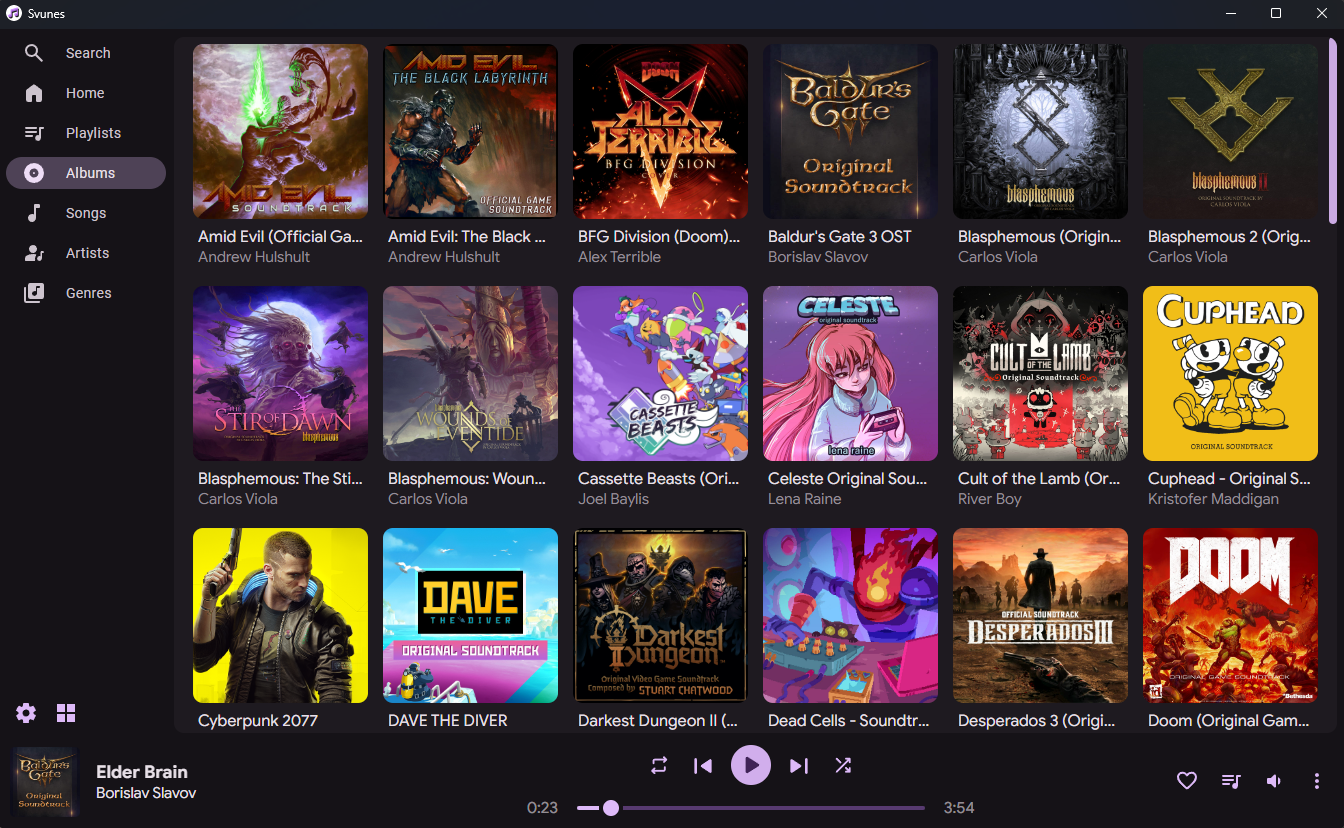
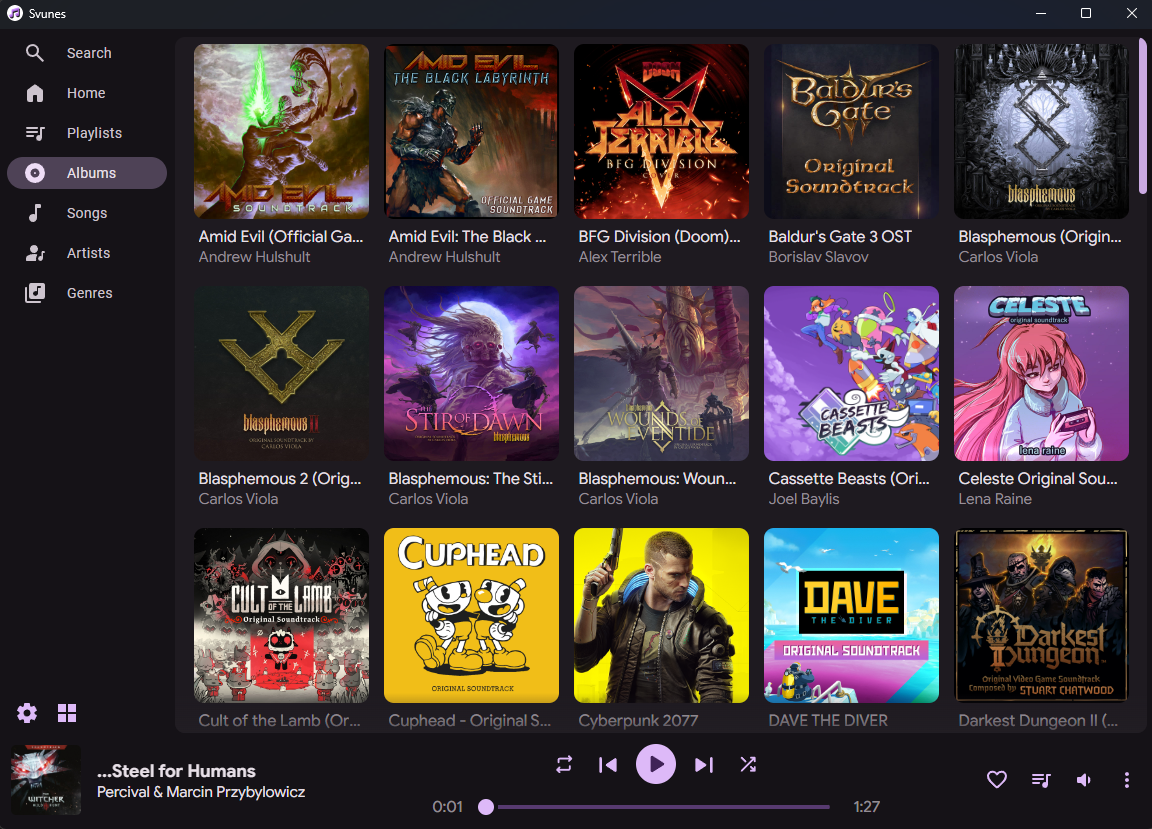
chore: updated desktop images

diff --git a/README.md b/README.md
@@ -17,11 +17,24 @@ An offline-first music player for your music library. Allows you to make playlis
 
 # Installation
 
-<!-- TODO: Android -->
-<!-- TODO: iOS -->
-<!-- TODO: Windows -->
-<!-- TODO: Linux -->
-<!-- TODO: Mac -->
+## Windows
+
+### Full Releases
+
+### Release Candidate
+
+## Linux
+Coming soon
+
+## Android
+Coming soon
+
+## Mac
+Coming soon
+
+## iOS
+Coming soon
+
 
 # Features
 
@@ -30,6 +43,8 @@ Svunes leverages the performance of Rust and multi-threading to quickly load lib
 
 ## Intuitive Navigation
 You can browse by your albums, genres, artists, songs or search all of them. Its easy to customize the order of the navigation bar, as well as which pages are displayed.
+
+### Mobile Views
 | <img src="public/readme-images/home.png" width="200"/>	|<img src="public/readme-images/playlists.png" width="200"/>|   <img src="public/readme-images/search.png" width="200"/>  	|    <img src="public/readme-images/songs.png" width="200"/> 	|
 |:-----:|   :-----:   | :-----:	|:-----:|
 | Home 	| Playlists 	| Search 	| Songs |
@@ -37,6 +52,23 @@ You can browse by your albums, genres, artists, songs or search all of them. Its
 | <img src="public/readme-images/albums.png" width="200"/>	|<img src="public/readme-images/artists.png" width="200"/>|   <img src="public/readme-images/genres.png" width="200"/>  	|    <img src="public/readme-images/settings.png" width="200"/> 	|
 |:-----: | :-----:	| :-----:	| :-----:	  |
 | Albums | Artists 	| Genres 	| Settings 	|
+
+### Desktop Views
+| <img src="public/readme-images/desktop/home.png" width="400"/>	|<img src="public/readme-images/desktop/playlists.png" width="400"/>|
+|:-----:|   :-----:   |
+| Home 	| Playlists 	|
+
+| <img src="public/readme-images/desktop/search.png" width="400"/>  	|    <img src="public/readme-images/desktop/songs.png" width="400"/> 	|
+| :-----:	|:-----:|
+| Search 	| Songs |
+
+| <img src="public/readme-images/desktop/albums.png" width="400"/>	|<img src="public/readme-images/desktop/artists.png" width="400"/>|
+|:-----: | :-----:	|
+| Albums | Artists 	|
+
+|   <img src="public/readme-images/desktop/genres.png" width="400"/>  	|    <img src="public/readme-images/desktop/settings.png" width="400"/> 	|
+| :-----:	| :-----:	  |
+| Genres 	| Settings 	|
 
 ## Now Playing Themes
 There are four different Now Playing Themes to pick from, as well as whether to use a solid, gradient, or blurred background.
